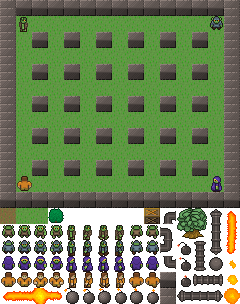
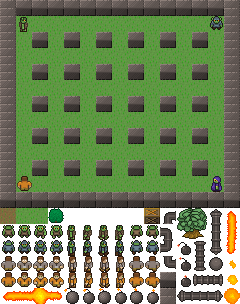
Finished 1.0

Changed region(s): [[0.0, 0.8289, 0.6708, 0.9178]]

diff --git a/src/landmine/PlayingState.java b/src/landmine/PlayingState.java
@@ -78,6 +78,9 @@ public class PlayingState extends BasicGameState {
     public void render(GameContainer container, StateBasedGame game, Graphics g) throws SlickException {
         LandMineGame lmg  = (LandMineGame)game;
 
+        Color kelly  = new Color(74,129,35);
+        Color lavender = new Color(181,126,220);
+
         // Map Render
         g.pushTransform();
         g.scale(6.25f,6.25f);
@@ -112,13 +115,13 @@ public class PlayingState extends BasicGameState {
 
             String paused = "PAUSED!";
 
-            g.setColor(new Color(0.5f,0.0f,0.0f,0.5f));
+            g.setColor(kelly);
 
-            float x1 = ((lmg.ScreenWidth/6f)-(g.getFont().getWidth(paused)/3f));
-            float y1 = ((lmg.ScreenHeight/6f)-(g.getFont().getHeight(paused)/3f));
+            float x1 = ((lmg.ScreenWidth/6f)-(g.getFont().getWidth(paused)/2f));
+            float y1 = ((lmg.ScreenHeight/6f)-(g.getFont().getHeight(paused)/2f));
 
             g.fillRect(x1,y1,g.getFont().getWidth(paused)+10,g.getFont().getHeight(paused)+10);
-            g.setColor(Color.cyan);
+            g.setColor(Color.white);
             g.drawString(paused, x1+3, y1+3);
             g.resetTransform();
 
@@ -127,13 +130,13 @@ public class PlayingState extends BasicGameState {
 
             String controls = "Controls:\n Up/Down/Left/Right: Directional keys\n Place Bomb: Space\n Pause: ESC\n Quit: 'Q'";
 
-            g.setColor(new Color(0.5f,0.0f,0.0f,0.5f));
+            g.setColor(lavender);
 
             float x2 = ((lmg.ScreenWidth/10f)-(g.getFont().getWidth(controls)/3f));
             float y2 = ((lmg.ScreenHeight/16f)-(g.getFont().getHeight(controls)/3f));
 
             g.fillRect(x2,y2,g.getFont().getWidth(controls)+10,g.getFont().getHeight(controls)+10);
-            g.setColor(Color.cyan);
+            g.setColor(Color.white);
             g.drawString(controls, x2+3, y2+3);
             g.popTransform();
         }
@@ -149,7 +152,7 @@ public class PlayingState extends BasicGameState {
             float y1 = ((lmg.ScreenHeight/6f)-(g.getFont().getHeight(nextlevel)/3f));
 
             g.fillRect(x1,y1,g.getFont().getWidth(nextlevel)+10,g.getFont().getHeight(nextlevel)+10);
-            g.setColor(Color.cyan);
+            g.setColor(Color.white);
             g.drawString(nextlevel, x1+3, y1+3);
             g.resetTransform();
         }
@@ -249,7 +252,6 @@ public class PlayingState extends BasicGameState {
         if(input.isKeyPressed(Input.KEY_Q)){
             container.exit();
         }
-
 
     }
 

diff --git a/src/landmine/StartUpState.java b/src/landmine/StartUpState.java
@@ -94,13 +94,13 @@ class StartUpState extends BasicGameState {
 
         String controls = "Controls:\n Up/Down/Left/Right: Directional keys\n Place Bomb: Space\n Pause: ESC\n Quit: 'Q'";
 
-        g.setColor(new Color(0.5f,0.0f,0.0f,0.5f));
+        g.setColor(lavender);
 
         float x1 = ((lmg.ScreenWidth/11.5f)-(g.getFont().getWidth(controls)/3f));
         float y1 = ((lmg.ScreenHeight/16f)-(g.getFont().getHeight(controls)/3f));
 
         g.fillRect(x1,y1,g.getFont().getWidth(controls)+10,g.getFont().getHeight(controls)+10);
-        g.setColor(Color.cyan);
+        g.setColor(Color.white);
         g.drawString(controls, x1+3, y1+3);
         g.popTransform();
 
@@ -109,13 +109,13 @@ class StartUpState extends BasicGameState {
 
         String scoring = "Scoring:\n Moving: -1 each step .\n Each second you survive: +100.\n Placing a bomb: +50.\n Taking a hit: -200.";
 
-        g.setColor(new Color(0.5f,0.0f,0.0f,0.5f));
+        g.setColor(lavender);
 
         float x2 = ((lmg.ScreenWidth/2.8f)-(g.getFont().getWidth(scoring)/3f));
         float y2 = ((lmg.ScreenHeight/16f)-(g.getFont().getHeight(scoring)/3f));
 
         g.fillRect(x2,y2,g.getFont().getWidth(scoring)+10,g.getFont().getHeight(scoring)+10);
-        g.setColor(Color.cyan);
+        g.setColor(Color.white);
         g.drawString(scoring, x2+3, y2+3);
         g.popTransform();
 

diff --git a/src/landmine/Person.java b/src/landmine/Person.java
@@ -90,6 +90,17 @@ public class Person extends Entity{
 
         level = Level.getInstance();
 
+        if(pNumber == 1){
+            SetColor(new Color(1.0f, 0.7f, 0.8f));
+
+        } else if(pNumber == 2){
+            SetColor(new Color(0.53f, 0.81f, 0.92f));
+
+        } else if(pNumber == 3){
+            SetColor(new Color(0.0f, 1.0f, 0.0f));
+
+        }
+
         Direction.SOUTH.setWalk(new Animation(master, 2, 16, 3, 16, true, 250, true));
 
         Direction.NORTH.setWalk(new Animation(master, 8, 16, 9, 16, true, 250, true));

diff --git a/src/landmine/LandMineGame.java b/src/landmine/LandMineGame.java
@@ -94,6 +94,7 @@ public class LandMineGame extends StateBasedGame {
         ResourceManager.loadImage(GAMEOVER_BANNER_RSC);
         ResourceManager.loadImage(STARTUP_BANNER_RSC);
         ResourceManager.loadImage(MASTER_RSC);
+        ResourceManager.getImage(MASTER_RSC).setFilter(Image.FILTER_NEAREST);
         ResourceManager.loadImage(BACKGROUND_RSC);
         ResourceManager.loadImage(BANNER_RSC);
         ResourceManager.loadImage(BANNER_BACK_RSC);
